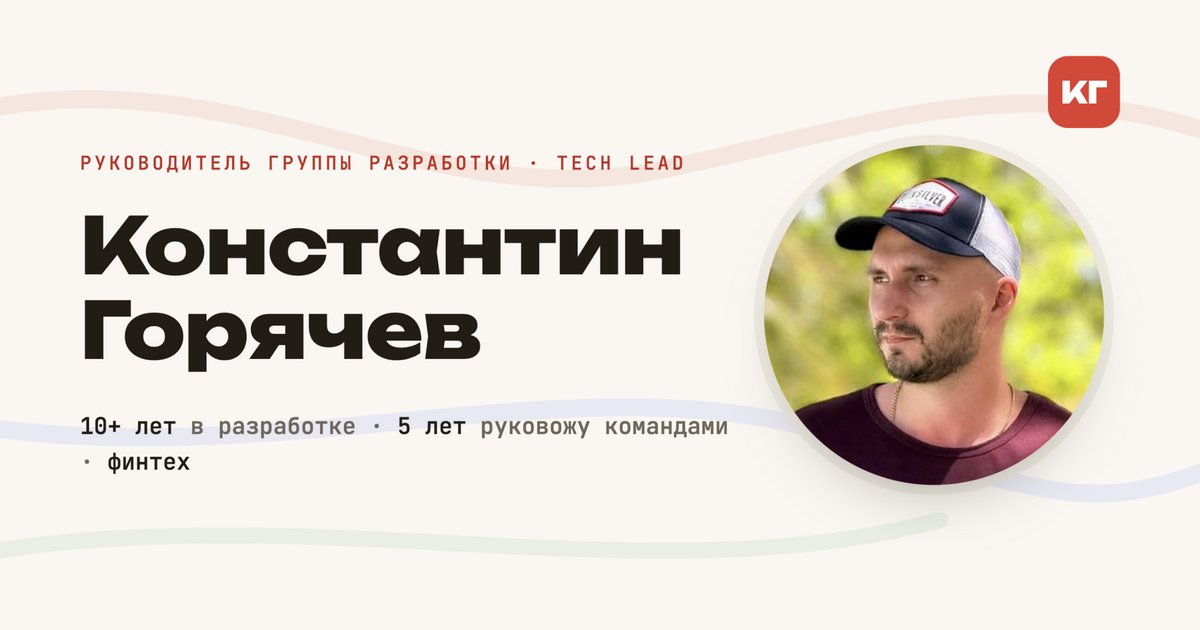
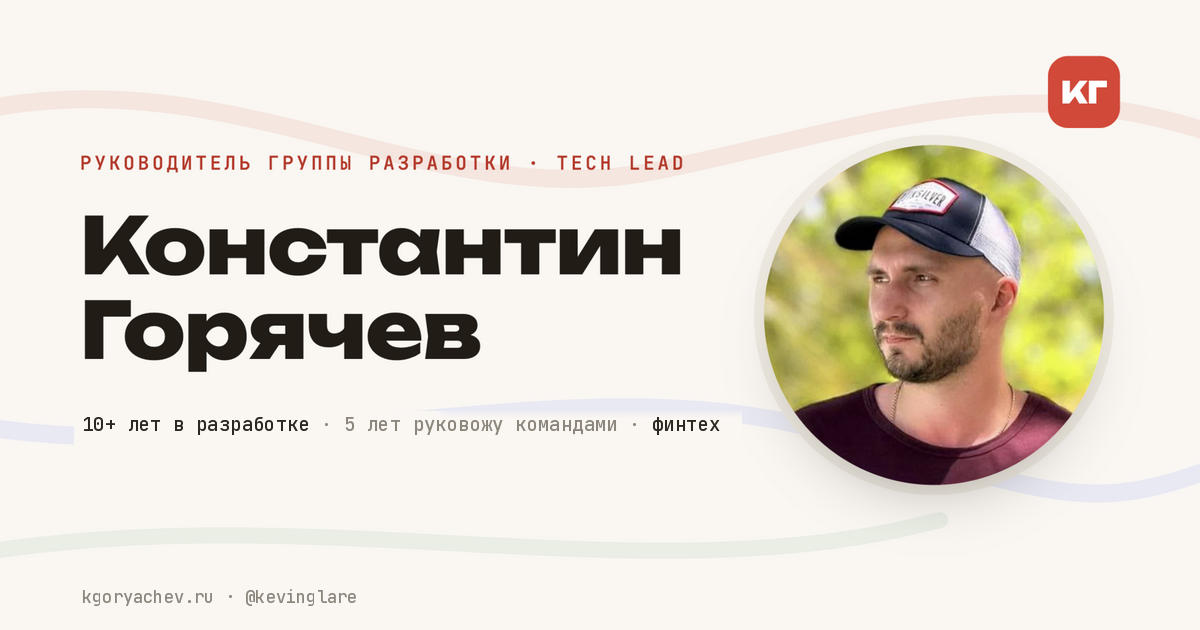
site: og-cover — статистика в одну строку, контакты внизу

Changed region(s): [[0.0617, 0.6635, 0.6167, 0.6937], [0.0617, 0.9349, 0.3083, 0.9651], [0.0925, 0.7238, 0.1542, 0.754]]

diff --git a/layouts/index.html b/layouts/index.html
@@ -54,7 +54,7 @@
         </header>
         <div class="rail-body">
           <div class="about-intro reveal">
-            <p class="about-lead">Кластер-техлид. Руковожу командами разработки и при этом остаюсь в коде: сам провожу ревью изменений, занимаюсь архитектурой, вместе с командой разбираю спорные решения и сложные кейсы, повышаю компетенции своих инженеров. Полностью отвечаю за процесс деливери: релизы выходят по плану; риски видны заранее, а не после аварии. Люблю сервисы, которые выдерживают нагрузку и не будят людей по ночам. Чем меньше магии в системе, тем дешевле она обходится команде. Авралы и выгорание считаю признаком сломанного процесса, а не подвигом команды. Поэтому строю работу на честной обратной связи и доверии — без совещаний ради совещаний и процессов ради процессов.</p>
+            <p class="about-lead">Кластер-техлид. Руковожу кросс-функциональными командами: провожу ревью изменений, занимаюсь архитектурой, вместе с командой разбираю спорные решения и сложные кейсы, повышаю компетенции своих инженеров. Полностью отвечаю за процесс деливери: релизы выходят по плану; риски видны заранее, а не после аварии. Авралы и выгорание считаю признаком сломанного процесса, а не подвигом команды. Поэтому строю работу на честной обратной связи и доверии — без совещаний ради совещаний и процессов ради процессов.</p>
           </div>
           <div class="about-grid reveal" style="--d:.1s">
             <div class="about-facts-col">
